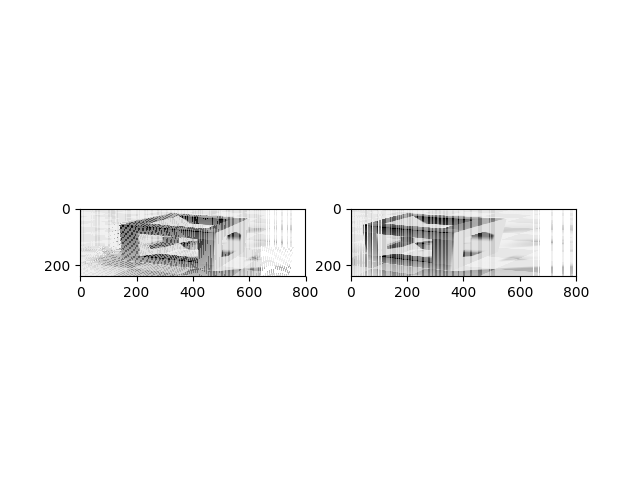
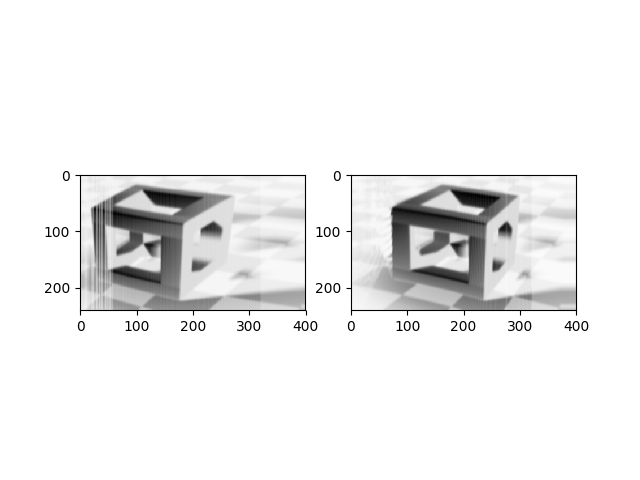
Finished the python. Now we just need to integrate with Kinect :)

diff --git a/Ben/depthConverter.py b/Ben/depthConverter.py
@@ -3,6 +3,7 @@ import matplotlib.image as mpimg
 import matplotlib.pyplot as plt
 from skimage import color
 from skimage.transform import downscale_local_mean
+from scipy.ndimage import gaussian_filter
 import math
 
 image_name = 'Cubic_Structure.jpg'
@@ -77,9 +78,46 @@ for k in range(2):
 			if left[i][j] < threshold:
 				left[i][j] = left[i][j-1] + left[i][j+1]/2
 
+def filterImage(im,width,height):
+	threshold = 30/255
+	while(np.count_nonzero(im==0) > 2*width):
+		for i in range(1,width+1):
+			for j in range(2,int(2.5*height)):
+				index_i = i - 1
+				index_j = j - 1
+				if(im[index_i][index_j] == 0):
+					if(im[index_i][index_j - 1] != 0 and im[index_i][index_j + 1] != 0):
+						im[index_i][index_j] = (im[index_i][index_j - 1] + im[index_i][index_j + 1])/2
+					elif(im[index_i][index_j - 1] != 0):
+						im[index_i][index_j] = im[index_i][index_j - 1]
+					elif(im[index_i][index_j + 1] != 0):
+						im[index_i][index_j] = im[index_i][index_j + 1]
+				elif(im[index_i][index_j] < threshold):
+					im[index_i][index_j] = (im[index_i][index_j - 1] + im[index_i][index_j + 1])/2
+		
+		for i in range(width,0,-1):
+			for j in range(int(2.5*height - 1),1,-1):
+				index_i = i - 1
+				index_j = j - 1
+				if(im[index_i][index_j] == 0):
+					if(im[index_i][index_j - 1] != 0 and im[index_i][index_j + 1] != 0):
+						im[index_i][index_j] = (im[index_i][index_j - 1] + im[index_i][index_j + 1])/2
+					elif(im[index_i][index_j - 1] != 0):
+						im[index_i][index_j] = im[index_i][index_j - 1]
+					elif(im[index_i][index_j + 1] != 0):
+						im[index_i][index_j] = im[index_i][index_j + 1]
+	im = gaussian_filter(im,sigma=2)
+	return im
+
+left = filterImage(left,width,height)
+right = filterImage(right,width,height)
+
+left = downscale_local_mean(left,(1,2))
+right = downscale_local_mean(right,(1,2))
+
 fig = plt.figure()
 plt.subplot(121)
-plt.imshow(left,cmap='Greys',interpolation='nearest')
-plt.subplot(122)
 plt.imshow(right,cmap='Greys',interpolation='nearest')
+plt.subplot(122)
+plt.imshow(left,cmap='Greys',interpolation='nearest')
 fig.savefig('plot.png')

diff --git a/Ben/depthConverter.m b/Ben/depthConverter.m
@@ -64,7 +64,6 @@ endfor
 
 #Fill up the NaN spaces by averaging:
 #has_nan = 1;
-'start'
 function im = filterImage(im,width,height)
 	threshold = 30;
 	while sum(sum(isnan(im))) > 2*width
